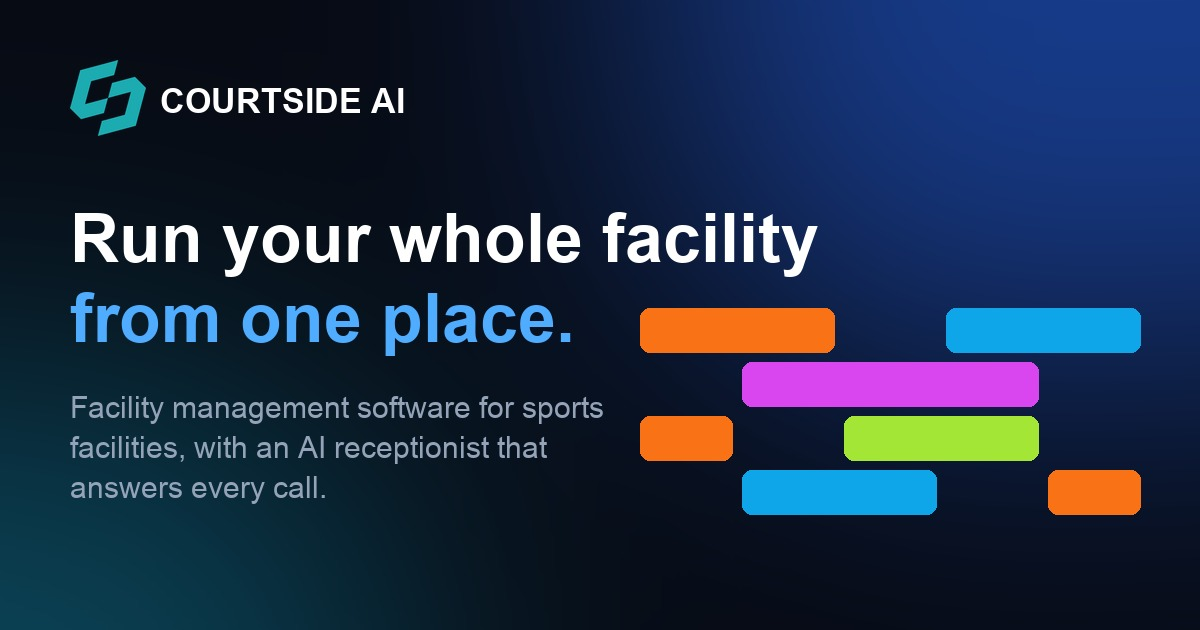
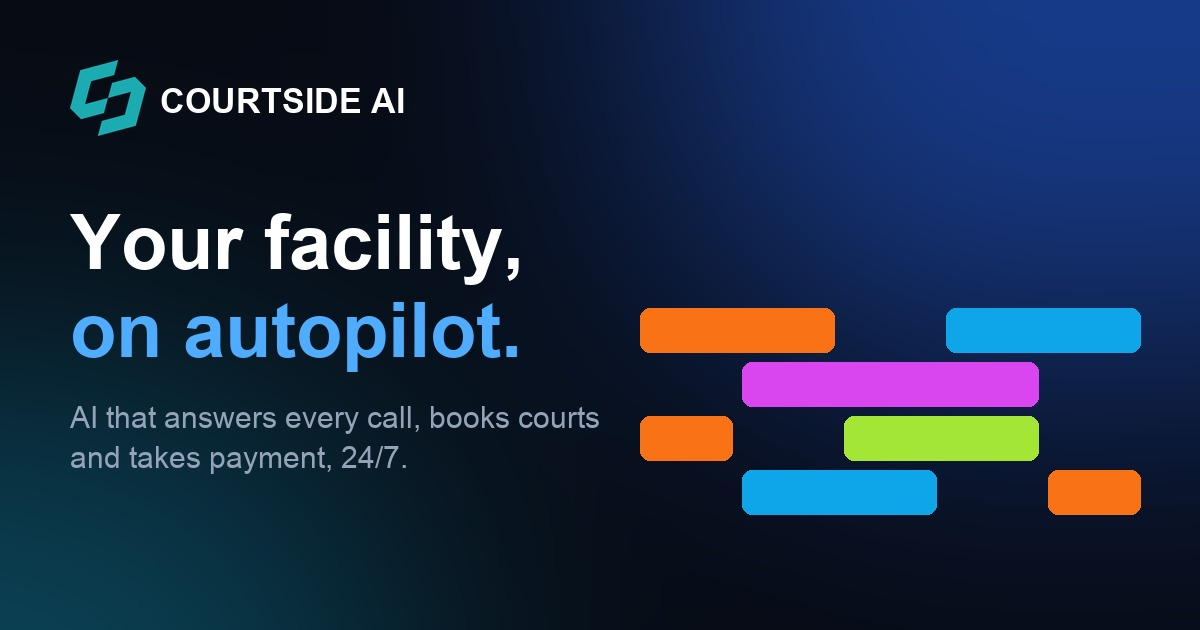
Lead with automation and AI: autopilot hero, Automation section, live vs coming-soon badges
- Hero: 'Your facility, on autopilot.' with AI-first subhead
- New Automation section (AI receptionist, 24/7 automation live; revenue recovery, agentic operator coming soon) replaces Always open
- Platform reframed as the system the automation runs on; compare row and FAQ on what's live
- Nav adds Automation; title, description, footer and share image updated

Changed region(s): [[0.0617, 0.6333, 0.5242, 0.8143], [0.0617, 0.3317, 0.6783, 0.4524], [0.0617, 0.4524, 0.4933, 0.6032]]

diff --git a/src/components/home/Sections.tsx b/src/components/home/Sections.tsx
@@ -1,6 +1,6 @@
 import { useEffect, useState } from "react";
 import { toast } from "sonner";
-import { type LucideIcon, MapPin, Moon, DoorOpen, Phone, ArrowRight, Check, X, PhoneMissed, CalendarX, Layers, Plug, Webhook, Database, Menu } from "lucide-react";
+import { type LucideIcon, MapPin, Moon, Phone, Bot, CircleDollarSign, ArrowRight, Check, X, PhoneMissed, CalendarX, Layers, Plug, Webhook, Database, Menu } from "lucide-react";
 import { Accordion, AccordionContent, AccordionItem, AccordionTrigger } from "@/components/ui/accordion";
 import { supabase } from "@/integrations/supabase/client";
 import logo from "@/assets/courtside-logo-horizontal-light.svg";
@@ -29,9 +29,9 @@ const SectionHead = ({ eyebrow, title, sub }: { eyebrow: string; title: React.Re
 export const Nav = ({ theme, prefix = "" }: { theme: HomeTheme; prefix?: string }) => {
   const [open, setOpen] = useState(false);
   const links = [
+    ["Automation", "#automation"],
     ["Platform", "#platform"],
     ["Maya AI", "#maya"],
-    ["Open API", "#api"],
     ["Compare", "#compare"],
     ["FAQ", "#faqs"],
   ];
@@ -65,12 +65,12 @@ export const Hero = ({ theme }: { theme: HomeTheme }) => (
     {theme === "dark" && <div className="pointer-events-none absolute inset-0 opacity-[0.07]" style={{ backgroundImage: "linear-gradient(var(--fg) 1px, transparent 1px), linear-gradient(90deg, var(--fg) 1px, transparent 1px)", backgroundSize: "64px 64px", maskImage: "radial-gradient(70% 60% at 50% 0%, #000, transparent)" }} />}
     <Wrap className="relative grid items-center gap-16 pb-32 lg:grid-cols-[1.05fr_1fr]">
       <div className="space-y-7">
-        <Eyebrow>Built by the people who run courts</Eyebrow>
+        <Eyebrow>AI-powered facility management · built by people who run courts</Eyebrow>
         <h1 className="text-5xl font-bold leading-[1.02] tracking-tight sm:text-6xl xl:text-7xl">
-          Run your whole facility <span className={gradText}>from one place.</span>
+          Your facility, <span className={gradText}>on autopilot.</span>
         </h1>
         <p className="max-w-xl text-lg leading-relaxed text-[var(--muted)]">
-          Courts, bookings, members and payments in one platform, with an AI receptionist that answers every call. We run a facility ourselves, so it's built for how courts actually work.
+          Courtside automates the front desk. AI answers every call, books courts, takes payment and sends door codes around the clock, on top of one platform for bookings, members and payments. We run a facility ourselves, so it's built for how courts actually work.
         </p>
         <div className="flex flex-wrap gap-3">
           <a href="#early-access" className={`group ${btnPrimary}`}>Get started <ArrowRight className="ml-2 h-4 w-4 transition-transform group-hover:translate-x-1" /></a>
@@ -116,18 +116,25 @@ export const ProofStrip = () =>
     </section>
   ) : null;
 
-export const AlwaysOpen = () => (
-  <section id="always-open" className="py-24">
+type Status = "Live" | "Coming soon";
+const AUTOMATIONS: [LucideIcon, string, string, Status][] = [
+  [Phone, "AI receptionist", "Maya answers every call, checks live availability, books the court, takes payment and texts the door code.", "Live"],
+  [Moon, "24/7 automation", "Online booking, payments, confirmations and door codes run around the clock, so you don't need staff at the desk.", "Live"],
+  [CircleDollarSign, "Revenue recovery", "Chases failed payments and no-shows, refills cancelled slots and wins back members who've gone quiet.", "Coming soon"],
+  [Bot, "Agentic operator", "An AI operator that handles the day-to-day: answers messages, updates the schedule, flags problems and sends you a daily briefing.", "Coming soon"],
+];
+
+export const Automation = () => (
+  <section id="automation" className="py-24">
     <Wrap>
-      <SectionHead eyebrow="Always open" title={<>Your facility never closes. <span className={gradText}>Your front desk doesn't have to be open.</span></>} sub="Run a 24/7 facility without staff at the desk." />
-      <div className="grid gap-5 md:grid-cols-3">
-        {([
-          [Moon, "Book and pay any hour", "Players book and pay online at 2 a.m. as easily as 2 p.m. The schedule updates the moment they do."],
-          [DoorOpen, "Door codes, automatically", "Access details go out with the booking confirmation, so players get in without anyone at the desk."],
-          [Phone, "Maya answers the phone", "Calls after hours get answered, booked and confirmed, not sent to voicemail."],
-        ] as [LucideIcon, string, string][]).map(([Icon, t, d]) => (
+      <SectionHead eyebrow="Automation" title={<>An AI that runs <span className={gradText}>your front desk.</span></>} sub="Booking software records what happened. Courtside does the work: it answers, books, collects and follows up, 24/7." />
+      <div className="grid gap-5 md:grid-cols-2">
+        {AUTOMATIONS.map(([Icon, t, d, status]) => (
           <div key={t} className={`${card} p-6`}>
-            <Icon className="mb-4 h-7 w-7 text-[var(--b)]" />
+            <div className="mb-4 flex items-center justify-between">
+              <Icon className="h-7 w-7 text-[var(--b)]" />
+              <span className={`rounded-full px-2.5 py-0.5 text-xs font-semibold ${status === "Live" ? "bg-lime-400/15 text-lime-400" : "border border-[var(--line)] text-[var(--muted)]"}`}>{status}</span>
+            </div>
             <h3 className="mb-2 text-lg font-semibold">{t}</h3>
             <p className="text-[var(--muted)]">{d}</p>
           </div>
@@ -161,7 +168,7 @@ export const Problem = () => (
 export const Platform = () => (
   <section id="platform" className="bg-[var(--bg2)] py-24">
     <Wrap>
-      <SectionHead eyebrow="The platform" title={<>Everything a facility runs on, <span className={gradText}>in one system.</span></>} sub="Booking, members, payments and reporting built together, so nothing gets re-typed." />
+      <SectionHead eyebrow="The platform" title={<>The system <span className={gradText}>the automation runs on.</span></>} sub="Booking, members, payments and reporting built together, so the AI always works from live data and nothing gets re-typed." />
       <div className="grid gap-6 md:grid-cols-2">
         {([
           ["Courts and bookings", "A live schedule for every court and sport. Players book online, staff book at the desk, Maya books by phone. All in the same calendar.", <ScheduleMock key="s" floating={false} />],
@@ -303,6 +310,7 @@ export const Compare = () => {
     ["Built by facility operators", true, false],
     ["Booking, members, waivers and payments in one platform", true, false],
     ["AI receptionist built into the platform", true, false],
+    ["24/7 automation: booking, payments and access with no one at the desk", true, false],
     ["Open API and webhooks", true, false],
     ["Help moving over from your current system", true, false],
   ];
@@ -379,6 +387,7 @@ export const Sports = ({ current }: { current?: string }) => (
 
 export const Faqs = () => {
   const faqs: [string, React.ReactNode][] = [
+    ["Which AI features are live today?", "Maya, the AI receptionist, and 24/7 booking, payment and access automation are live. Revenue recovery and the agentic operator are coming soon, and early access customers get them first."],
     ["Who is Courtside for?", "Court-sport facilities: pickleball, tennis, basketball, badminton, squash, volleyball and multi-sport venues."],
     ["Do I need Maya to use the platform?", "No. Maya is an add-on. The booking, member, payment and reporting platform works on its own."],
     ["How long does setting up Maya take?", "About 72 hours. We collect your pricing, rules and scripts, configure Maya, test her on real scenarios and take her live."],

diff --git a/index.html b/index.html
@@ -4,21 +4,21 @@
     <meta charset="UTF-8" />
     <link rel="icon" href="/favicon.png" type="image/png" />
     <meta name="viewport" content="width=device-width, initial-scale=1.0" />
-    <title>Courtside AI | Facility management software for sports facilities</title>
-    <meta name="description" content="Run your whole facility from one place: courts, bookings, members, payments and an AI receptionist that answers every call. Built by the people who run courts." />
+    <title>Courtside AI | Your facility on autopilot</title>
+    <meta name="description" content="AI-powered facility management for sports facilities. Courtside answers every call, books courts, takes payment and runs your front desk 24/7. Built by people who run courts." />
     <meta name="author" content="Courtside AI" />
     <link rel="canonical" href="https://www.court-side.ai/" />
 
-    <meta property="og:title" content="Courtside AI | Facility management software for sports facilities" />
-    <meta property="og:description" content="Run your whole facility from one place: courts, bookings, members, payments and an AI receptionist that answers every call. Built by the people who run courts." />
+    <meta property="og:title" content="Courtside AI | Your facility on autopilot" />
+    <meta property="og:description" content="AI-powered facility management for sports facilities. Courtside answers every call, books courts, takes payment and runs your front desk 24/7. Built by people who run courts." />
     <meta property="og:type" content="website" />
     <meta property="og:site_name" content="Courtside AI" />
     <meta property="og:url" content="https://www.court-side.ai/" />
     <meta property="og:image" content="https://www.court-side.ai/og-image.jpg" />
 
     <meta name="twitter:card" content="summary_large_image" />
-    <meta name="twitter:title" content="Courtside AI | Facility management software for sports facilities" />
-    <meta name="twitter:description" content="Run your whole facility from one place: courts, bookings, members, payments and an AI receptionist that answers every call. Built by the people who run courts." />
+    <meta name="twitter:title" content="Courtside AI | Your facility on autopilot" />
+    <meta name="twitter:description" content="AI-powered facility management for sports facilities. Courtside answers every call, books courts, takes payment and runs your front desk 24/7. Built by people who run courts." />
     <meta name="twitter:image" content="https://www.court-side.ai/og-image.jpg" />
   </head>
 

diff --git a/src/pages/HomeV2.tsx b/src/pages/HomeV2.tsx
@@ -2,7 +2,7 @@ import { useParams } from "react-router-dom";
 import Footer from "@/components/Footer";
 import { themeStyle, HomeTheme } from "@/components/home/theme";
 import { VenuesSection } from "@/components/home/Venues";
-import { Nav, Hero, ProofStrip, AlwaysOpen, OperatorStrip, Problem, Platform, Maya, OpenApi, Compare, HowItWorks, Sports, Faqs, EarlyAccess, FinalCta } from "@/components/home/Sections";
+import { Nav, Hero, ProofStrip, Automation, OperatorStrip, Problem, Platform, Maya, OpenApi, Compare, HowItWorks, Sports, Faqs, EarlyAccess, FinalCta } from "@/components/home/Sections";
 
 // Preview of the rebuilt home page. /new → dark, /new/blue → light blue.
 const HomeV2 = () => {
@@ -16,8 +16,8 @@ const HomeV2 = () => {
         <ProofStrip />
         <OperatorStrip />
         <Problem />
+        <Automation />
         <Platform />
-        <AlwaysOpen />
         <Maya />
         <OpenApi />
         <Sports />

diff --git a/src/components/Footer.tsx b/src/components/Footer.tsx
@@ -11,7 +11,7 @@ const Footer = () => {
               <img alt="Courtside AI" className="h-12" src="/lovable-uploads/aef6f963-0b6d-481b-bc94-2a5efd80b3c2.png" />
             </div>
             <p className="text-sm text-gray-400">
-              Facility management software for sports facilities, with an AI receptionist that answers every call.
+              AI-powered facility management for sports facilities. It answers calls, books courts and takes payment, 24/7.
             </p>
           </div>
 
